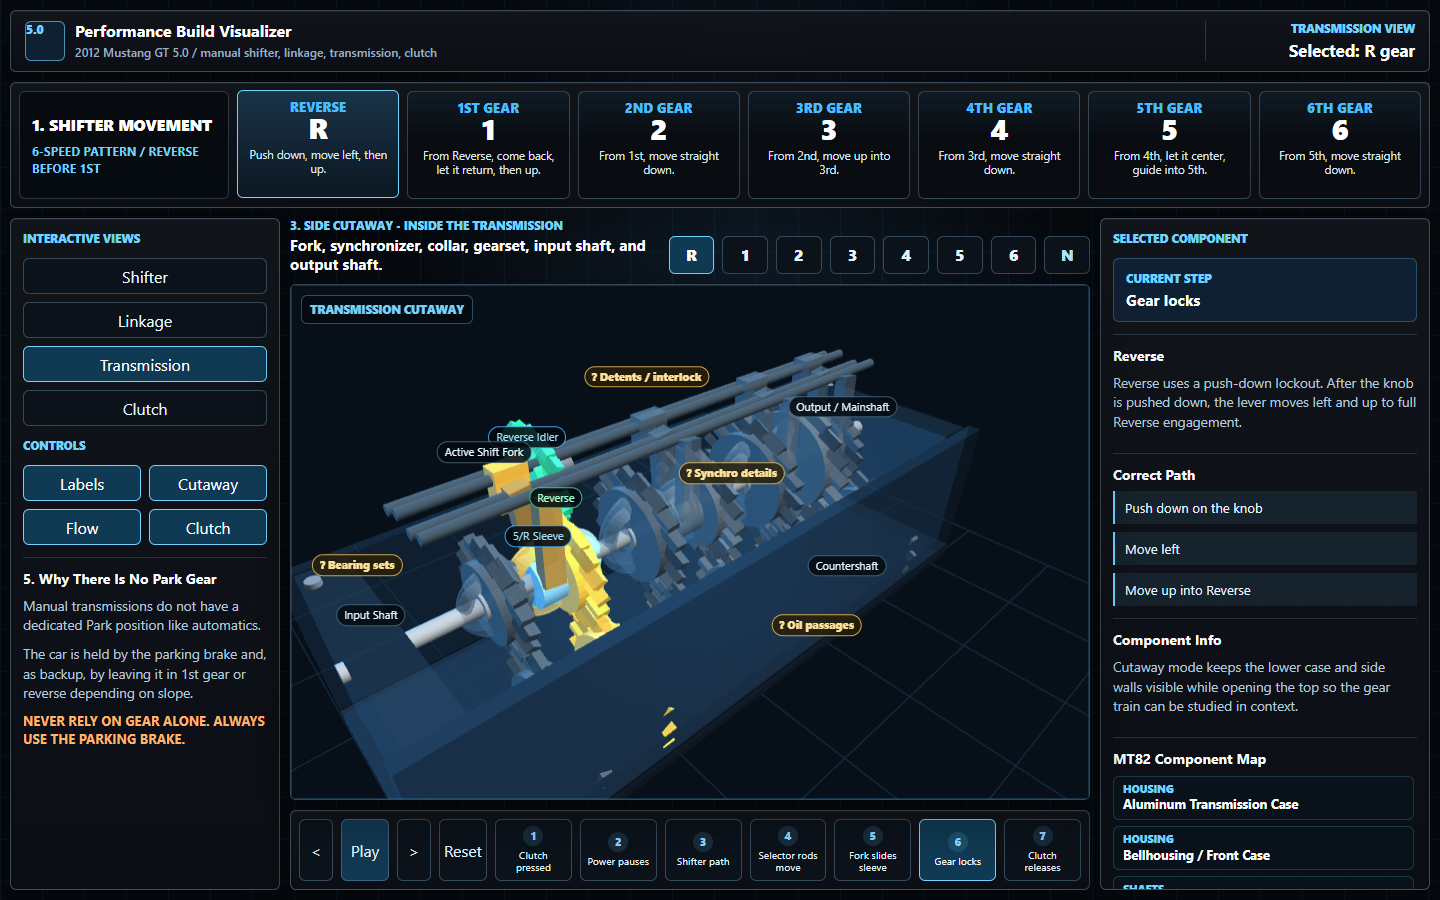
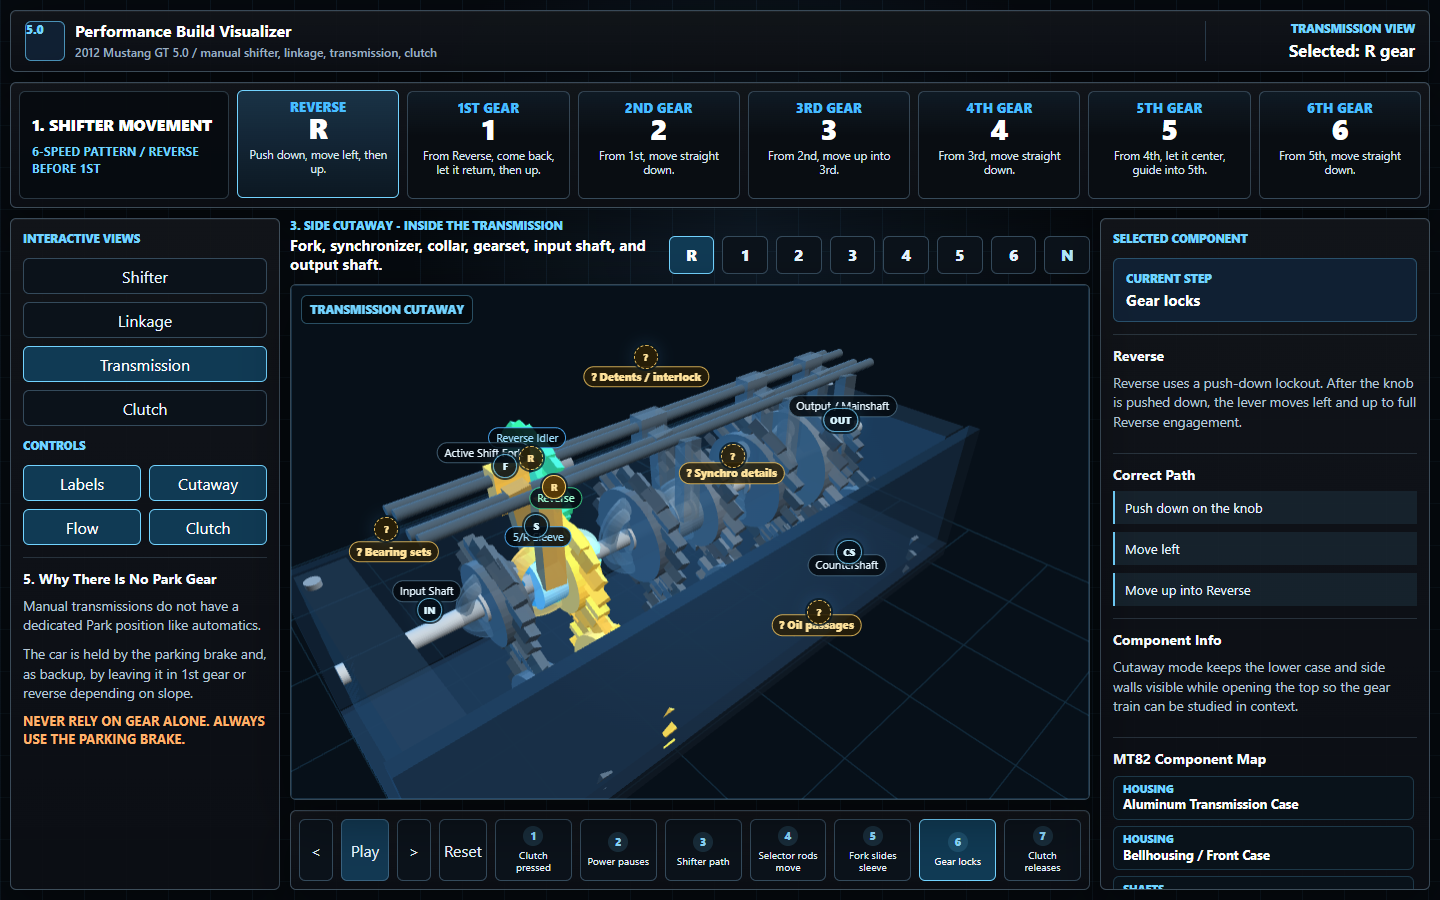
Phase C Stage 1 component hotspots

diff --git a/src/app.js b/src/app.js
@@ -546,6 +546,8 @@ function drawTransmission() {
   const activeForkId = state.gear === "6" ? "fork6" : state.gear === "5" || state.gear === "R" ? "fork56" : g.trans.fork === 0 ? "fork12" : g.trans.fork === 1 ? "fork34" : null;
   const activeForkX = { fork56: -1.55, fork34: -0.05, fork12: 1.24, fork6: 2.1 }[activeForkId] ?? 0.72;
   const sleeveShift = { R: 0.14, 5: -0.14, 3: -0.14, 4: 0.14, 1: 0.14, 2: -0.14, 6: 0.14 }[state.gear] || 0;
+  const activeSleeve = { fork56: "hub5R", fork34: "hub34", fork12: "hub12", fork6: "hub6" }[activeForkId];
+  const activeSleeveX = { hub5R: -1.55, hub34: -0.05, hub12: 1.24, hub6: 2.1 }[activeSleeve] ?? 0;
   const internalAlpha = state.caseMode === "case" ? 0.16 : 1;
   const labelInternals = state.caseMode !== "case";
   if (state.caseMode === "cutaway") {
@@ -583,6 +585,7 @@ function drawTransmission() {
     { id: "gear6", label: "6th", x: 2.1, r: 0.31, cr: 0.5 },
   ];
   pairs.forEach((p, index) => drawGearPair(p, activeGear === p.id, index, internalAlpha));
+  const activePair = pairs.find((p) => p.id === activeGear);
 
   drawReverseIdler(activeGear === "gearR", internalAlpha);
   drawHubSleeve("hub5R", "5/R Sleeve", -1.55, activeGear === "gear5" || activeGear === "gearR", activeForkId === "fork56" ? sleeveShift : 0, internalAlpha);
@@ -605,25 +608,63 @@ function drawTransmission() {
     flowLine([[0.8,0.78,-0.08],[2.8,0.78,-0.08]], "#41ff91", 6);
   }
   if (labelInternals) {
-    addLabel([-2.65,0.68,-0.08], "Input Shaft");
+    addLabel([-2.28,0.68,-0.08], "Input Shaft");
     addLabel([2.35,0.68,-0.08], "Output / Mainshaft");
     addLabel([1.95,-0.92,0.55], "Countershaft");
     addLabel([-1.12,1.26,-0.58], "Reverse Idler", "blue");
     addLabel([activeForkX,1.34,-0.42], "Active Shift Fork");
-    addInspectionMarker([-2.54,0.72,-0.62], "?", "Bearing sets");
+    addHotspot([-2.3,0.52,-0.08], "inputShaft", "IN");
+    addHotspot([2.35,0.52,-0.08], "outputShaft", "OUT");
+    addHotspot([1.95,-0.74,0.55], "countershaft", "CS");
+    addHotspot([-1.12,1.08,-0.58], "reverseIdler", "R", "inspect");
+    if (activePair) addHotspot([activePair.x,1.08,-0.08], activePair.id, state.gear);
+    if (activeForkId) addHotspot([activeForkX + sleeveShift,1.18,-0.42], activeForkId, "F");
+    if (activeSleeve) addHotspot([activeSleeveX + sleeveShift,0.82,-0.08], activeSleeve, "S");
+    addInspectionMarker([-2.28,0.72,-0.62], "?", "Bearing sets");
     addInspectionMarker([0.18,1.38,-0.72], "?", "Detents / interlock");
     addInspectionMarker([0.95,-0.96,0.92], "?", "Oil passages");
     addInspectionMarker([0.28,0.78,0.28], "?", "Synchro details");
+    addHotspot([-2.28,0.92,-0.62], "bearingSets", "?", "inspect");
+    addHotspot([0.18,1.56,-0.72], "detentSystem", "?", "inspect");
+    addHotspot([0.95,-0.78,0.92], "oilPassages", "?", "inspect");
+    addHotspot([0.28,0.94,0.28], "synchroDetails", "?", "inspect");
   } else {
     addLabel([0,1.08,-0.58], "Assembled MT82 Case");
     addInspectionMarker([-2.25,0.95,-0.7], "?", "Case ribs / seals");
     addInspectionMarker([-2.9,0.62,-0.16], "?", "Clutch input interface");
+    addHotspot([0,0.86,-0.58], "case", "CASE");
+    addHotspot([-2.25,1.14,-0.7], "caseRibs", "?", "inspect");
+    addHotspot([-2.9,0.82,-0.16], "clutchInterface", "?", "inspect");
   }
 }
 
 function addInspectionMarker(pos, symbol, text) {
   if (!state.labels) return;
   addLabel(pos, `${symbol} ${text}`, "inspect");
+}
+
+function projectToScreen(pos) {
+  const clip = multiplyVec(viewProj, [pos[0], pos[1], pos[2], 1]);
+  if (clip[3] <= 0) return null;
+  return {
+    x: (clip[0] / clip[3] * 0.5 + 0.5) * canvas.clientWidth,
+    y: (-clip[1] / clip[3] * 0.5 + 0.5) * canvas.clientHeight,
+  };
+}
+
+function addHotspot(pos, componentId, text, className = "") {
+  if (!state.labels || !componentCatalog[componentId]) return;
+  const point = projectToScreen(pos);
+  if (!point) return;
+  const el = document.createElement("button");
+  el.type = "button";
+  el.className = `scene-hotspot ${className} ${componentId === state.selectedComponent ? "active" : ""}`;
+  el.dataset.hotspotComponent = componentId;
+  el.textContent = text;
+  el.title = componentCatalog[componentId].name;
+  el.style.left = `${point.x}px`;
+  el.style.top = `${point.y}px`;
+  labels.appendChild(el);
 }
 
 function drawShaft(id, from, to, color, alpha = 1) {
@@ -713,15 +754,13 @@ function drawClutch() {
 
 function addLabel(pos, text, className = "") {
   if (!state.labels && className !== "mini") return;
-  const clip = multiplyVec(viewProj, [pos[0], pos[1], pos[2], 1]);
-  if (clip[3] <= 0) return;
-  const x = (clip[0] / clip[3] * 0.5 + 0.5) * canvas.clientWidth;
-  const y = (-clip[1] / clip[3] * 0.5 + 0.5) * canvas.clientHeight;
+  const point = projectToScreen(pos);
+  if (!point) return;
   const el = document.createElement("span");
   el.className = `scene-label ${className}`;
   el.textContent = text;
-  el.style.left = `${x}px`;
-  el.style.top = `${y}px`;
+  el.style.left = `${point.x}px`;
+  el.style.top = `${point.y}px`;
   labels.appendChild(el);
 }
 
@@ -920,10 +959,19 @@ document.getElementById("gearCards").innerHTML = stripGears.map((g) => {
     <span class="gear-copy">${config.cardBody}</span>
   </button>`;
 }).join("");
+labels.addEventListener("pointerdown", (e) => {
+  const hotspotComponent = e.target.closest("[data-hotspot-component]")?.dataset.hotspotComponent;
+  if (!hotspotComponent) return;
+  e.preventDefault();
+  e.stopPropagation();
+  state.selectedComponent = hotspotComponent;
+  renderUi();
+});
 document.addEventListener("click", (e) => {
   const view = e.target.closest("[data-view]")?.dataset.view; if (view) setView(view);
   const gear = e.target.closest("[data-gear]")?.dataset.gear; if (gear) selectGear(gear);
   const cardGear = e.target.closest("[data-card-gear]")?.dataset.cardGear; if (cardGear) selectGear(cardGear);
+  const hotspotComponent = e.target.closest("[data-hotspot-component]")?.dataset.hotspotComponent; if (hotspotComponent) { state.selectedComponent = hotspotComponent; renderUi(); }
   const component = e.target.closest("[data-component]")?.dataset.component; if (component) { state.selectedComponent = component; renderUi(); }
   const step = e.target.closest("[data-step]")?.dataset.step; if (step) { state.step = Number(step); renderUi(); }
 });

diff --git a/src/styles.css b/src/styles.css
@@ -705,6 +705,48 @@ p {
   font-weight: 900;
 }
 
+.scene-hotspot {
+  position: absolute;
+  z-index: 4;
+  display: inline-grid;
+  place-items: center;
+  min-width: 24px;
+  height: 24px;
+  padding: 0 6px;
+  border: 1px solid rgba(114, 211, 255, 0.76);
+  border-radius: 999px;
+  background: rgba(3, 14, 23, 0.88);
+  box-shadow: 0 0 0 2px rgba(6, 22, 32, 0.76), 0 0 16px rgba(77, 177, 255, 0.22);
+  color: #d9f5ff;
+  cursor: pointer;
+  font: 900 10px/1 system-ui, sans-serif;
+  letter-spacing: 0;
+  pointer-events: auto;
+  transform: translate(-50%, -50%);
+}
+
+.scene-hotspot:hover,
+.scene-hotspot:focus-visible {
+  border-color: rgba(255, 255, 255, 0.92);
+  background: rgba(28, 91, 126, 0.94);
+  box-shadow: 0 0 0 3px rgba(105, 208, 255, 0.22), 0 0 22px rgba(105, 208, 255, 0.48);
+  color: #ffffff;
+  outline: none;
+}
+
+.scene-hotspot.active {
+  border-color: rgba(255, 209, 102, 0.96);
+  background: rgba(88, 58, 4, 0.95);
+  color: #ffe29a;
+}
+
+.scene-hotspot.inspect {
+  border-style: dashed;
+  border-color: rgba(255, 209, 102, 0.86);
+  background: rgba(42, 31, 6, 0.9);
+  color: #ffe29a;
+}
+
 @media (max-width: 1220px) {
   .app-shell {
     grid-template-columns: minmax(210px, 250px) minmax(440px, 1fr);

diff --git a/index.html b/index.html
@@ -135,6 +135,6 @@
         </section>
       </aside>
     </main>
-    <script type="module" src="./src/app.js?v=mt82-sanity-b1s4"></script>
+    <script type="module" src="./src/app.js?v=mt82-hotspots-c1s1"></script>
   </body>
 </html>